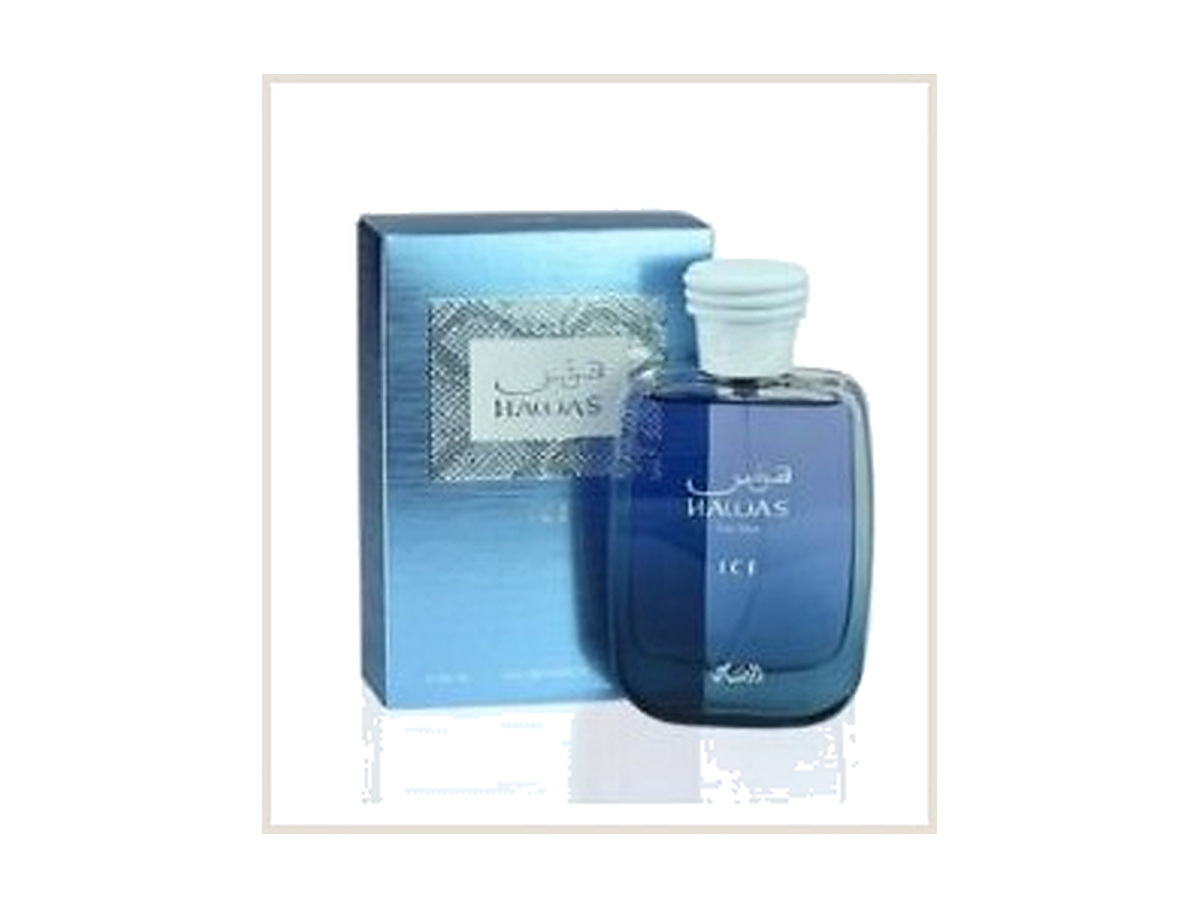
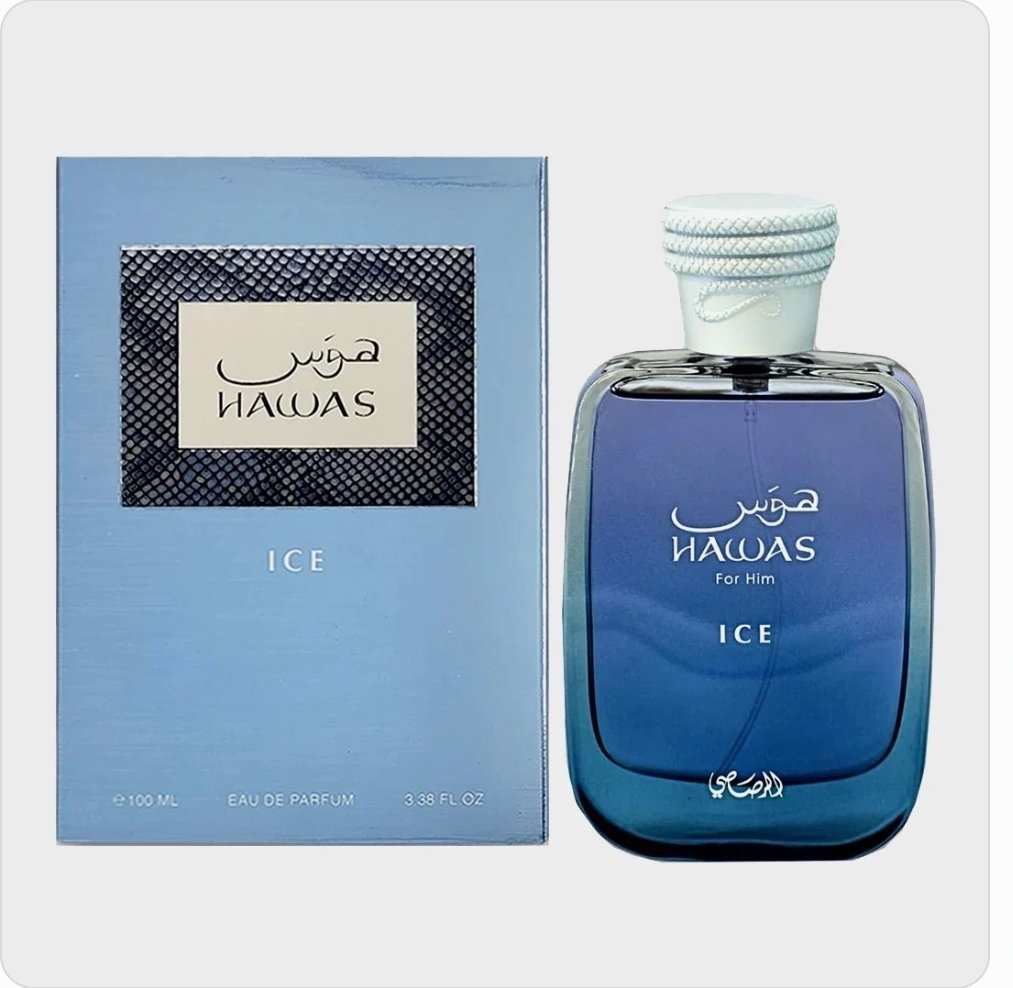
Replace Rasasi Hawas Ice photos with Boss's new shots

diff --git a/index.html b/index.html
@@ -710,7 +710,7 @@
         { name:'Lattafa Khamrah Qahwa Perfume for Unisex', niche:'Lattafa · Unisex · 3.4 oz EDP', direction:'Coffee, cinnamon and vanilla praline', description:'Roasted coffee and warming spice enrich a sweet base of vanilla and praline. Dense, cozy and deliciously bold for cooler days and late nights.', category:'sweet', images:[{src:'assets/product-lattafa-khamrah-qahwa.jpg', alt:'Lattafa Khamrah Qahwa bottle and box — clean packshot'}], price:37, decantPrice:9, originalPrice:46, featured:19 , paymentLink:'https://buy.stripe.com/4gM00laiZ37K3pM8ODf7i1j'},
         { name:'Lattafa Yara Candy Perfume for Women', niche:'Lattafa · Women · 3.4 oz EDP', direction:'Juicy berries, vanilla and caramel', description:'A playful burst of juicy berries settles into creamy vanilla and soft caramel sweetness. Bright, cheerful and easy to wear when you want something fun.', category:'sweet', images:[{src:'assets/product-lattafa-yara-candy.jpg', alt:'Lattafa Yara Candy bottle and pink box — clean packshot'},{src:'assets/gallery-lattafa-yara-candy-1.jpg', alt:'Lattafa Yara Candy Perfume for Women — customer photo 1'},{src:'assets/gallery-lattafa-yara-candy-2.jpg', alt:'Lattafa Yara Candy Perfume for Women — customer photo 2'},{src:'assets/gallery-lattafa-yara-candy-3.jpg', alt:'Lattafa Yara Candy Perfume for Women — customer photo 3'}], price:29, decantPrice:7, originalPrice:34, featured:20 , paymentLink:'https://buy.stripe.com/cNi7sN62JcIkgcyc0Pf7i1k'},
         { name:'Dolce & Gabbana Light Blue Cologne for Men', niche:'Dolce & Gabbana · Men · 4.2 oz EDT', direction:'Crisp citrus, aromatic herbs and clean woods', description:'A bright Mediterranean-style blend of citrus and fresh aromatics settles into a clean, lightly woody base. Easygoing and refreshing for warm days.', category:'fresh', images:[{src:'assets/product-dolce-gabbana-light-blue.jpg', alt:'Dolce & Gabbana Light Blue bottle and box — clean packshot'}], price:68, decantPrice:17, originalPrice:80, featured:21 , paymentLink:'https://buy.stripe.com/aFa7sNaiZeQs5xU6Gvf7i0M'},
-        { name:'Rasasi Hawas Ice Cologne for Men', niche:'Rasasi · Men · 3.38 oz EDP', direction:'Icy citrus, fruit and amber woods', description:'Cool citrus and juicy fruit create an energetic opening, followed by aromatic warmth and smooth amber woods. Fresh, modern and made to project.', category:'fresh', images:[{src:'assets/product-rasasi-hawas-ice.jpg', alt:'Rasasi Hawas Ice blue bottle and box — clean packshot'}], price:55, decantPrice:14, originalPrice:68, featured:22 , paymentLink:'https://buy.stripe.com/4gMfZjdvb7o08K68ODf7i13'},
+        { name:'Rasasi Hawas Ice Cologne for Men', niche:'Rasasi · Men · 3.38 oz EDP', direction:'Icy citrus, fruit and amber woods', description:'Cool citrus and juicy fruit create an energetic opening, followed by aromatic warmth and smooth amber woods. Fresh, modern and made to project.', category:'fresh', images:[{src:'assets/product-rasasi-hawas-ice.jpg', alt:'Rasasi Hawas Ice blue bottle and box on a clean white background'},{src:'assets/product-rasasi-hawas-ice-2.jpg', alt:'Rasasi Hawas Ice blue bottle on a clean white background'},{src:'assets/product-rasasi-hawas-ice-3.jpg', alt:'Rasasi Hawas Ice bottle with fragrance notes breakdown graphic'}], price:55, decantPrice:14, originalPrice:68, featured:22 , paymentLink:'https://buy.stripe.com/4gMfZjdvb7o08K68ODf7i13'},
         { name:'Yves Saint Laurent Myslf Cologne for Men', niche:'Yves Saint Laurent · Men · 3.4 oz EDP', direction:'Bright citrus, orange blossom and woods', description:'Sparkling citrus meets a clean orange-blossom heart and a warm woody finish. Polished and versatile, with a contemporary dressed-up feel.', category:'fresh', images:[{src:'assets/product-ysl-myslf.jpg', alt:'Yves Saint Laurent Myslf black bottle and box — clean packshot'},{src:'assets/gallery-ysl-myslf-1.jpg', alt:'Yves Saint Laurent Myslf Cologne for Men — customer photo 1'},{src:'assets/gallery-ysl-myslf-2.jpg', alt:'Yves Saint Laurent Myslf Cologne for Men — customer photo 2'},{src:'assets/gallery-ysl-myslf-3.jpg', alt:'Yves Saint Laurent Myslf Cologne for Men — customer photo 3'}], price:125, decantPrice:31, originalPrice:145, featured:23 , paymentLink:'https://buy.stripe.com/fZu7sNfDj8s49Oa3ujf7i0R'},
         { name:'Versace Eros Flame Cologne for Men', niche:'Versace · Men · 3.4 oz EDP', direction:'Spiced citrus, herbs and vanilla woods', description:'Vibrant citrus and pepper lead into aromatic herbs, warm woods and vanilla. Fiery and confident, with a bold evening-ready trail.', category:'amber', images:[{src:'assets/product-versace-eros-flame.jpg', alt:'Versace Eros Flame red bottle and box — clean packshot'},{src:'assets/gallery-versace-eros-flame-1.jpg', alt:'Versace Eros Flame Cologne for Men — customer photo 1'},{src:'assets/gallery-versace-eros-flame-2.jpg', alt:'Versace Eros Flame Cologne for Men — customer photo 2'},{src:'assets/gallery-versace-eros-flame-3.jpg', alt:'Versace Eros Flame Cologne for Men — customer photo 3'},{src:'assets/gallery-versace-eros-flame-4.jpg', alt:'Versace Eros Flame Cologne for Men — customer photo 4'}], price:79, decantPrice:20, originalPrice:95, featured:24 , paymentLink:'https://buy.stripe.com/28E5kFbn30ZC3pMc0Pf7i0S'},
         { name:'Lattafa His Confession Cologne for Men', niche:'Lattafa · Men · 3.4 oz EDP', direction:'Warm spice, iris and amber woods', description:'A smooth blend of warm spice and powdery iris deepens into amber, vanilla and woods. Rich and composed, with a softly mysterious finish.', category:'amber', images:[{src:'assets/product-lattafa-his-confession.jpg', alt:'Lattafa His Confession bust bottle and black box on a clean white background'},{src:'assets/product-lattafa-his-confession-2.jpg', alt:'Lattafa His Confession bust bottle on a clean white background'}], price:36, decantPrice:9, originalPrice:44, featured:25 , paymentLink:'https://buy.stripe.com/dRmcN7bn337KbWifd1f7i0Q'},
